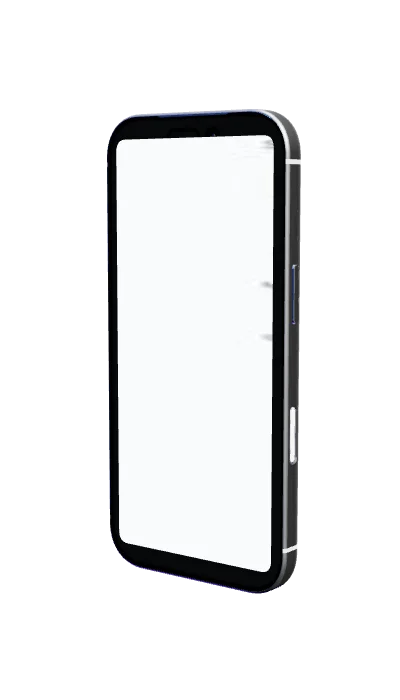
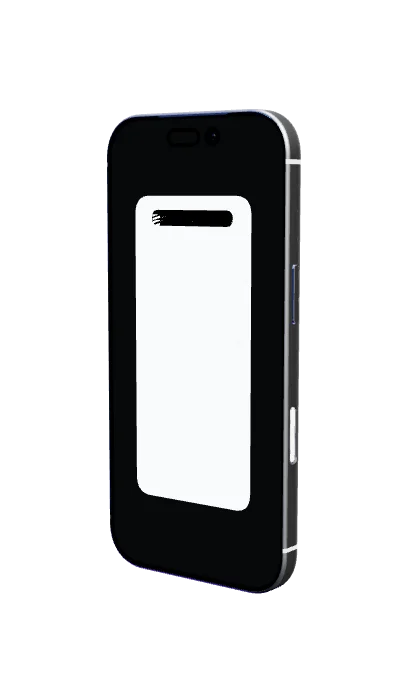
fix: campus screenshot properly fitted inside iPhone screen with correct dimensions

Changed region(s): [[0.27, 0.18, 0.69, 0.84]]

diff --git a/public/adjust-screen.html b/public/adjust-screen.html
@@ -1,0 +1,193 @@
+<!DOCTYPE html>
+<html>
+<head>
+  <title>Adjust Screen Plane Position</title>
+  <style>
+    body { background:#111; color:#fff; font-family:monospace; margin:0; display:flex; }
+    #view { flex:1; height:100vh; }
+    #controls { width:300px; padding:20px; background:#222; overflow-y:auto; }
+    label { display:block; margin:8px 0 2px; font-size:12px; }
+    input[type=range] { width:100%; }
+    .val { color:#4af; font-size:11px; }
+    button { margin-top:15px; padding:10px 20px; background:#2159E2; color:#fff; border:none; border-radius:8px; cursor:pointer; font-size:14px; width:100%; }
+  </style>
+  <script type="importmap">
+  {"imports":{"three":"https://cdn.jsdelivr.net/npm/three@0.170.0/build/three.module.js","three/addons/":"https://cdn.jsdelivr.net/npm/three@0.170.0/examples/jsm/"}}
+  </script>
+</head>
+<body>
+  <div id="view"></div>
+  <div id="controls">
+    <h3>Screen Plane Adjuster</h3>
+    <label>Width <span class="val" id="vw"></span></label>
+    <input type="range" id="sw" min="0.02" max="0.08" step="0.0005" value="0.058">
+    <label>Height <span class="val" id="vh"></span></label>
+    <input type="range" id="sh" min="0.05" max="0.16" step="0.0005" value="0.125">
+    <label>Pos X <span class="val" id="vx"></span></label>
+    <input type="range" id="px" min="-0.01" max="0.01" step="0.0001" value="0">
+    <label>Pos Y <span class="val" id="vy"></span></label>
+    <input type="range" id="py" min="-0.01" max="0.01" step="0.0001" value="0">
+    <label>Pos Z <span class="val" id="vz"></span></label>
+    <input type="range" id="pz" min="0.003" max="0.006" step="0.00005" value="0.0044">
+    <label>Corner Radius <span class="val" id="vcr"></span></label>
+    <input type="range" id="cr" min="0" max="0.008" step="0.0002" value="0.003">
+    <label>DI Y offset <span class="val" id="vdi"></span></label>
+    <input type="range" id="di" min="0.04" max="0.07" step="0.0005" value="0.055">
+    <button id="render-btn">🎬 Render 48 Frames</button>
+    <pre id="output" style="font-size:10px; margin-top:10px; color:#8f8;"></pre>
+  </div>
+
+  <script type="module">
+    import * as THREE from 'three';
+    import { GLTFLoader } from 'three/addons/loaders/GLTFLoader.js';
+    import { OrbitControls } from 'three/addons/controls/OrbitControls.js';
+
+    const viewEl = document.getElementById('view');
+    const scene = new THREE.Scene();
+    const camera = new THREE.PerspectiveCamera(30, viewEl.clientWidth / viewEl.clientHeight, 0.001, 10);
+    camera.position.set(0, 0, 0.42);
+    const renderer = new THREE.WebGLRenderer({ antialias: true, alpha: true, preserveDrawingBuffer: true });
+    renderer.setSize(viewEl.clientWidth, viewEl.clientHeight);
+    renderer.toneMapping = THREE.ACESFilmicToneMapping;
+    renderer.toneMappingExposure = 2.2;
+    renderer.outputColorSpace = THREE.SRGBColorSpace;
+    viewEl.appendChild(renderer.domElement);
+
+    const controls = new OrbitControls(camera, renderer.domElement);
+    controls.enableDamping = true;
+
+    scene.add(new THREE.AmbientLight(0xffffff, 1.5));
+    [[[3,4,5],0xffffff,3],[[-3,2,2],0x4488ff,1.2],[[-1,-2,-3],0x8855ff,0.8],[[0,5,0],0xffffff,1]].forEach(([p,c,i])=>{
+      const l=new THREE.DirectionalLight(c,i); l.position.set(...p); scene.add(l);
+    });
+
+    const texLoader = new THREE.TextureLoader();
+    const campusTex = await new Promise(r => texLoader.load('/campus-screenshot.jpg', r));
+    campusTex.colorSpace = THREE.SRGBColorSpace;
+
+    let model, screenPlane, diPlane, screenMat;
+
+    function makeRoundedShape(w, h, cr) {
+      const hw = w/2, hh = h/2;
+      const s = new THREE.Shape();
+      s.moveTo(-hw+cr, -hh);
+      s.lineTo(hw-cr, -hh);
+      s.quadraticCurveTo(hw, -hh, hw, -hh+cr);
+      s.lineTo(hw, hh-cr);
+      s.quadraticCurveTo(hw, hh, hw-cr, hh);
+      s.lineTo(-hw+cr, hh);
+      s.quadraticCurveTo(-hw, hh, -hw, hh-cr);
+      s.lineTo(-hw, -hh+cr);
+      s.quadraticCurveTo(-hw, -hh, -hw+cr, -hh);
+      return s;
+    }
+
+    function makeDIPill(w, h) {
+      const s = new THREE.Shape();
+      const r = h;
+      s.moveTo(-w+r, -h);
+      s.lineTo(w-r, -h);
+      s.quadraticCurveTo(w, -h, w, 0);
+      s.quadraticCurveTo(w, h, w-r, h);
+      s.lineTo(-w+r, h);
+      s.quadraticCurveTo(-w, h, -w, 0);
+      s.quadraticCurveTo(-w, -h, -w+r, -h);
+      return s;
+    }
+
+    new GLTFLoader().load('/iphone-17-pro.glb', (gltf) => {
+      model = gltf.scene;
+      const box = new THREE.Box3().setFromObject(model);
+      model.position.sub(box.getCenter(new THREE.Vector3()));
+      model.rotation.x = 0.12;
+      scene.add(model);
+
+      screenMat = new THREE.MeshBasicMaterial({ map: campusTex, toneMapped: false });
+      screenPlane = new THREE.Mesh(new THREE.ShapeGeometry(makeRoundedShape(0.058, 0.125, 0.003)), screenMat);
+      screenPlane.position.set(0, 0, 0.0044);
+      model.add(screenPlane);
+
+      const diMat = new THREE.MeshBasicMaterial({ color: 0x000000, toneMapped: false });
+      diPlane = new THREE.Mesh(new THREE.ShapeGeometry(makeDIPill(0.016, 0.0025)), diMat);
+      diPlane.position.set(0, 0.055, 0.00441);
+      model.add(diPlane);
+
+      update();
+    });
+
+    function update() {
+      if (!screenPlane) return;
+      const w = +document.getElementById('sw').value;
+      const h = +document.getElementById('sh').value;
+      const cr = +document.getElementById('cr').value;
+      const px = +document.getElementById('px').value;
+      const py = +document.getElementById('py').value;
+      const pz = +document.getElementById('pz').value;
+      const diy = +document.getElementById('di').value;
+
+      document.getElementById('vw').textContent = w.toFixed(4);
+      document.getElementById('vh').textContent = h.toFixed(4);
+      document.getElementById('vx').textContent = px.toFixed(4);
+      document.getElementById('vy').textContent = py.toFixed(4);
+      document.getElementById('vz').textContent = pz.toFixed(5);
+      document.getElementById('vcr').textContent = cr.toFixed(4);
+      document.getElementById('vdi').textContent = diy.toFixed(4);
+
+      screenPlane.geometry.dispose();
+      screenPlane.geometry = new THREE.ShapeGeometry(makeRoundedShape(w, h, cr));
+      screenPlane.position.set(px, py, pz);
+
+      diPlane.geometry.dispose();
+      diPlane.geometry = new THREE.ShapeGeometry(makeDIPill(0.016, 0.0025));
+      diPlane.position.set(px, diy, pz + 0.00001);
+    }
+
+    document.querySelectorAll('input[type=range]').forEach(el => el.addEventListener('input', update));
+
+    // Render frames
+    document.getElementById('render-btn').addEventListener('click', async () => {
+      const out = document.getElementById('output');
+      out.textContent = 'Rendering...';
+
+      // Switch to render camera
+      const renderCam = new THREE.PerspectiveCamera(30, 400/700, 0.001, 10);
+      renderCam.position.set(0, 0, 0.42);
+      const renderRenderer = new THREE.WebGLRenderer({ antialias: true, alpha: true, preserveDrawingBuffer: true });
+      renderRenderer.setSize(400, 700);
+      renderRenderer.setPixelRatio(1);
+      renderRenderer.toneMapping = THREE.ACESFilmicToneMapping;
+      renderRenderer.toneMappingExposure = 2.2;
+      renderRenderer.outputColorSpace = THREE.SRGBColorSpace;
+
+      for (let i = 0; i < 48; i++) {
+        model.rotation.y = (i / 48) * Math.PI * 2;
+        renderRenderer.render(scene, renderCam);
+        const data = renderRenderer.domElement.toDataURL('image/webp', 0.85).split(',')[1];
+        await fetch('http://localhost:4488', {
+          method: 'POST',
+          headers: { 'Content-Type': 'application/json' },
+          body: JSON.stringify({ index: i, data })
+        });
+        out.textContent = `Frame ${i+1}/48`;
+      }
+      // Reset rotation
+      model.rotation.y = 0;
+      out.textContent = '✅ All 48 frames saved!';
+      renderRenderer.dispose();
+    });
+
+    function animate() {
+      requestAnimationFrame(animate);
+      controls.update();
+      renderer.render(scene, camera);
+    }
+    animate();
+
+    window.addEventListener('resize', () => {
+      camera.aspect = viewEl.clientWidth / viewEl.clientHeight;
+      camera.updateProjectionMatrix();
+      renderer.setSize(viewEl.clientWidth, viewEl.clientHeight);
+    });
+  </script>
+</body>
+</html>
